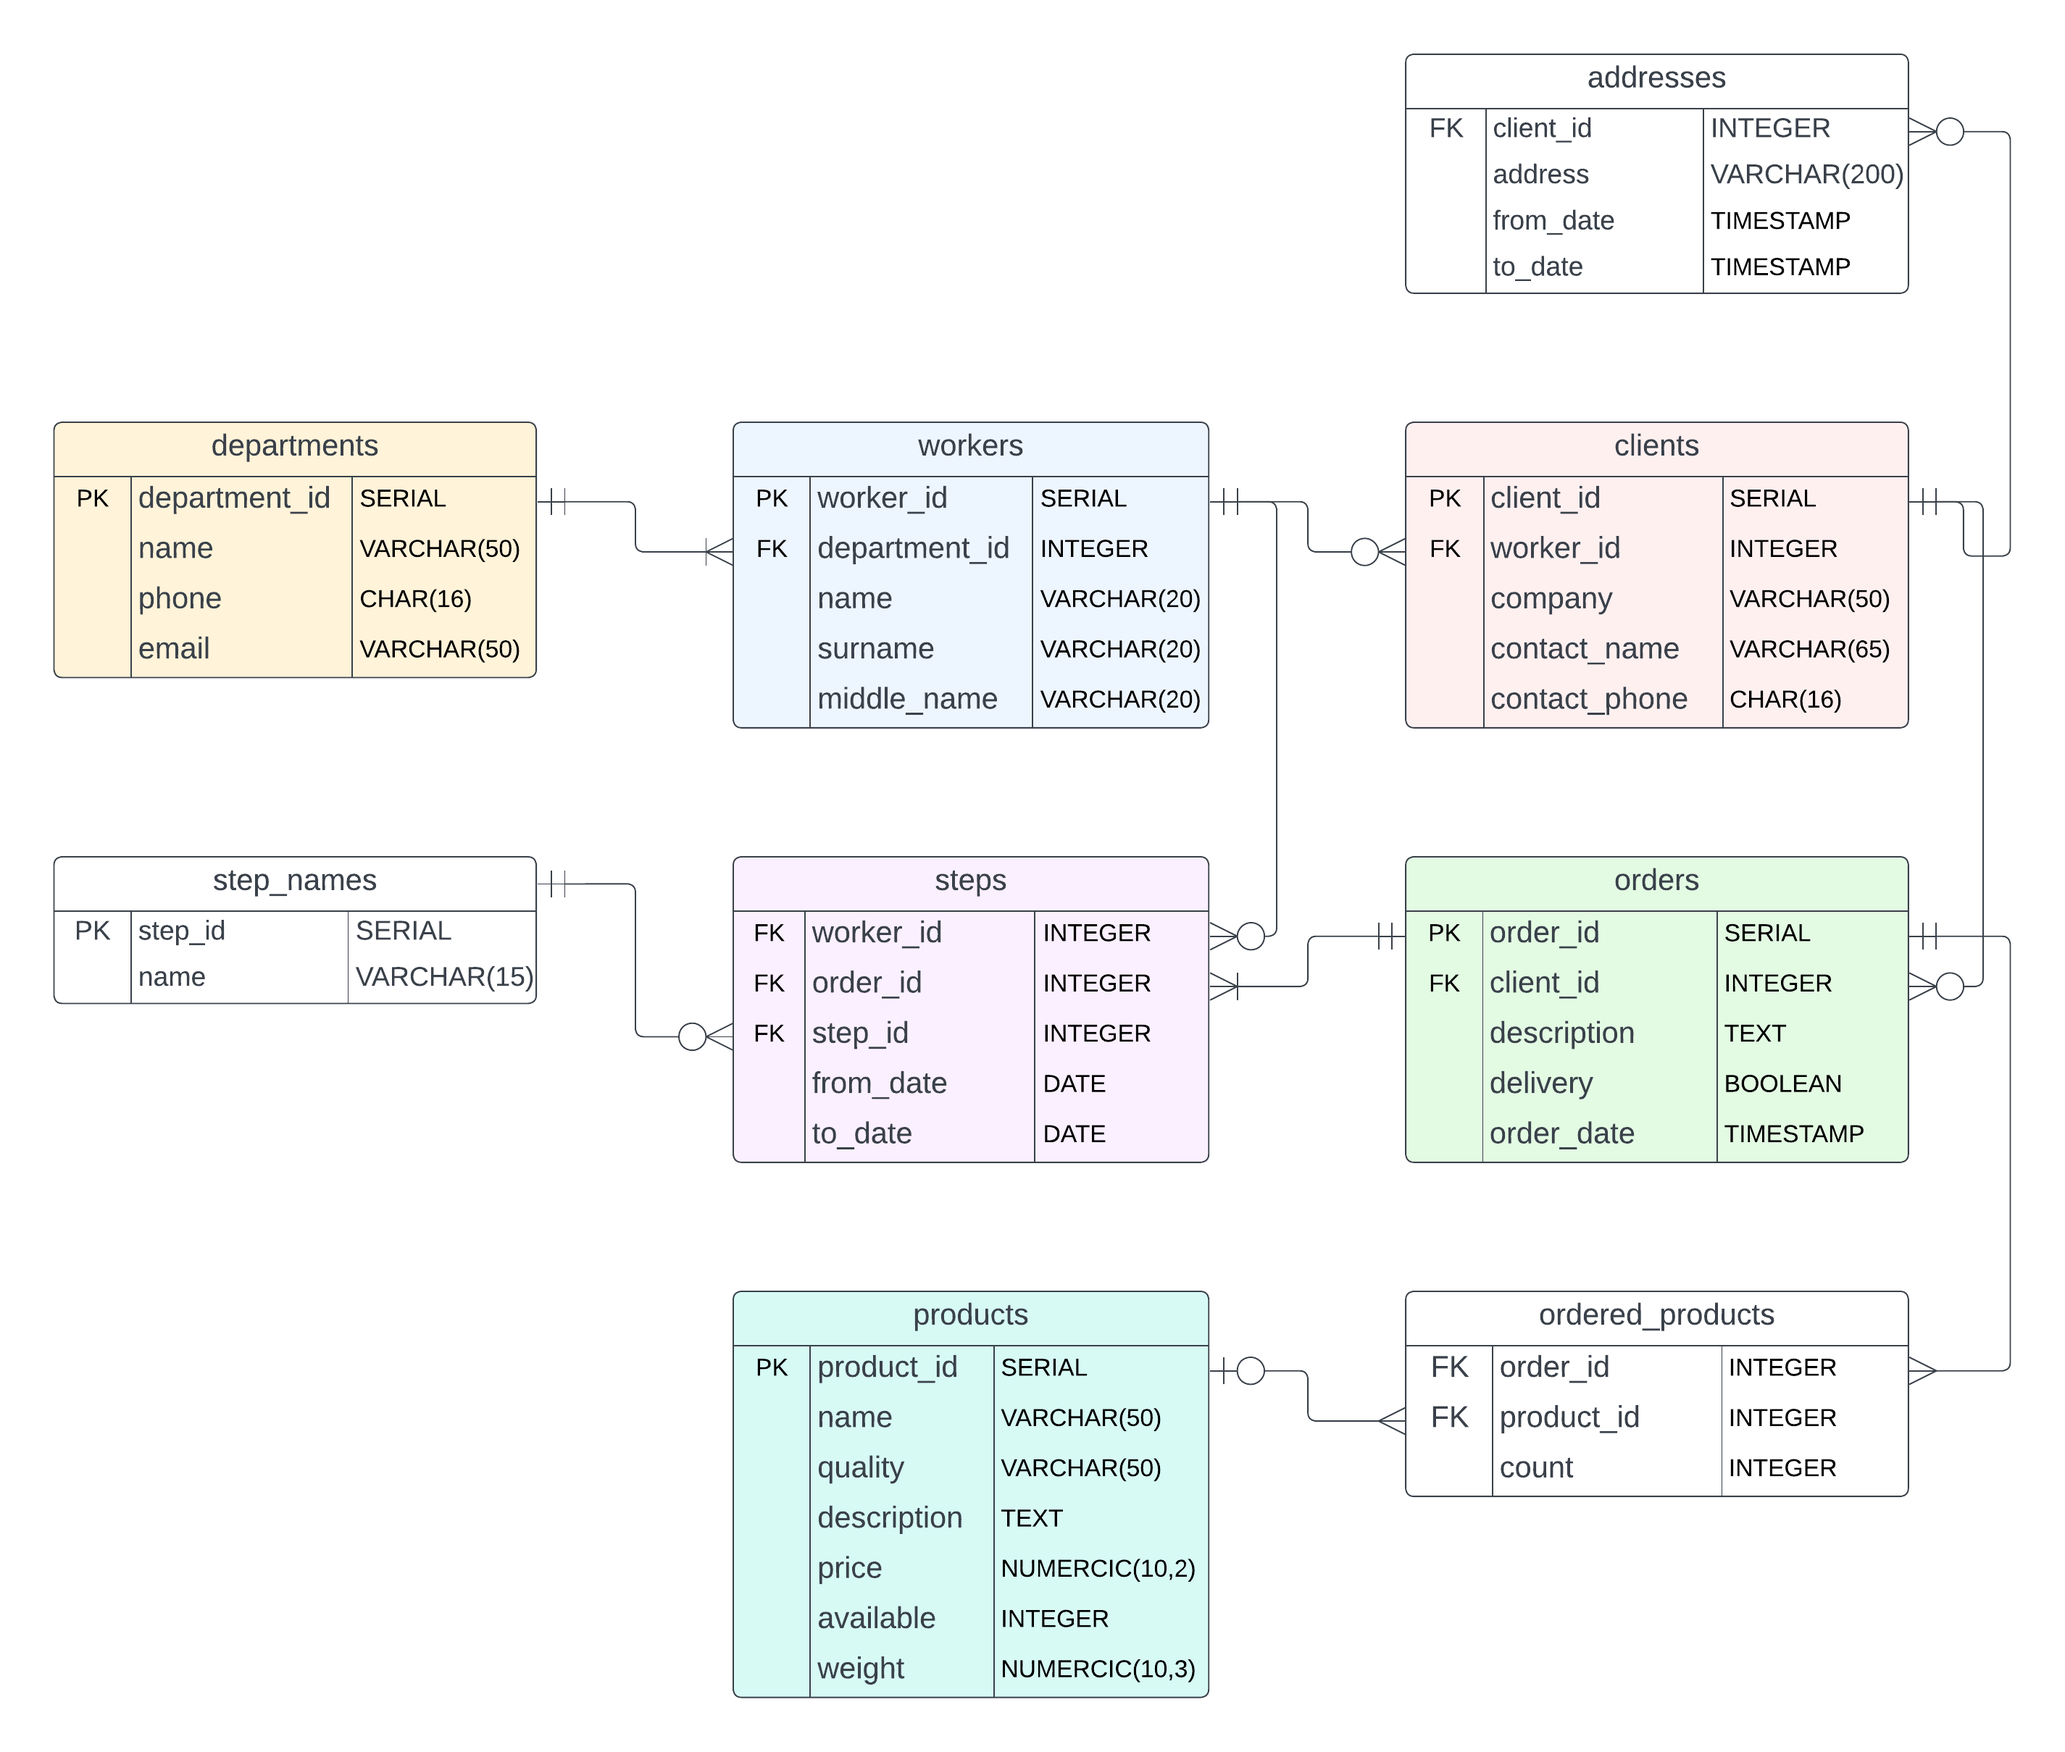
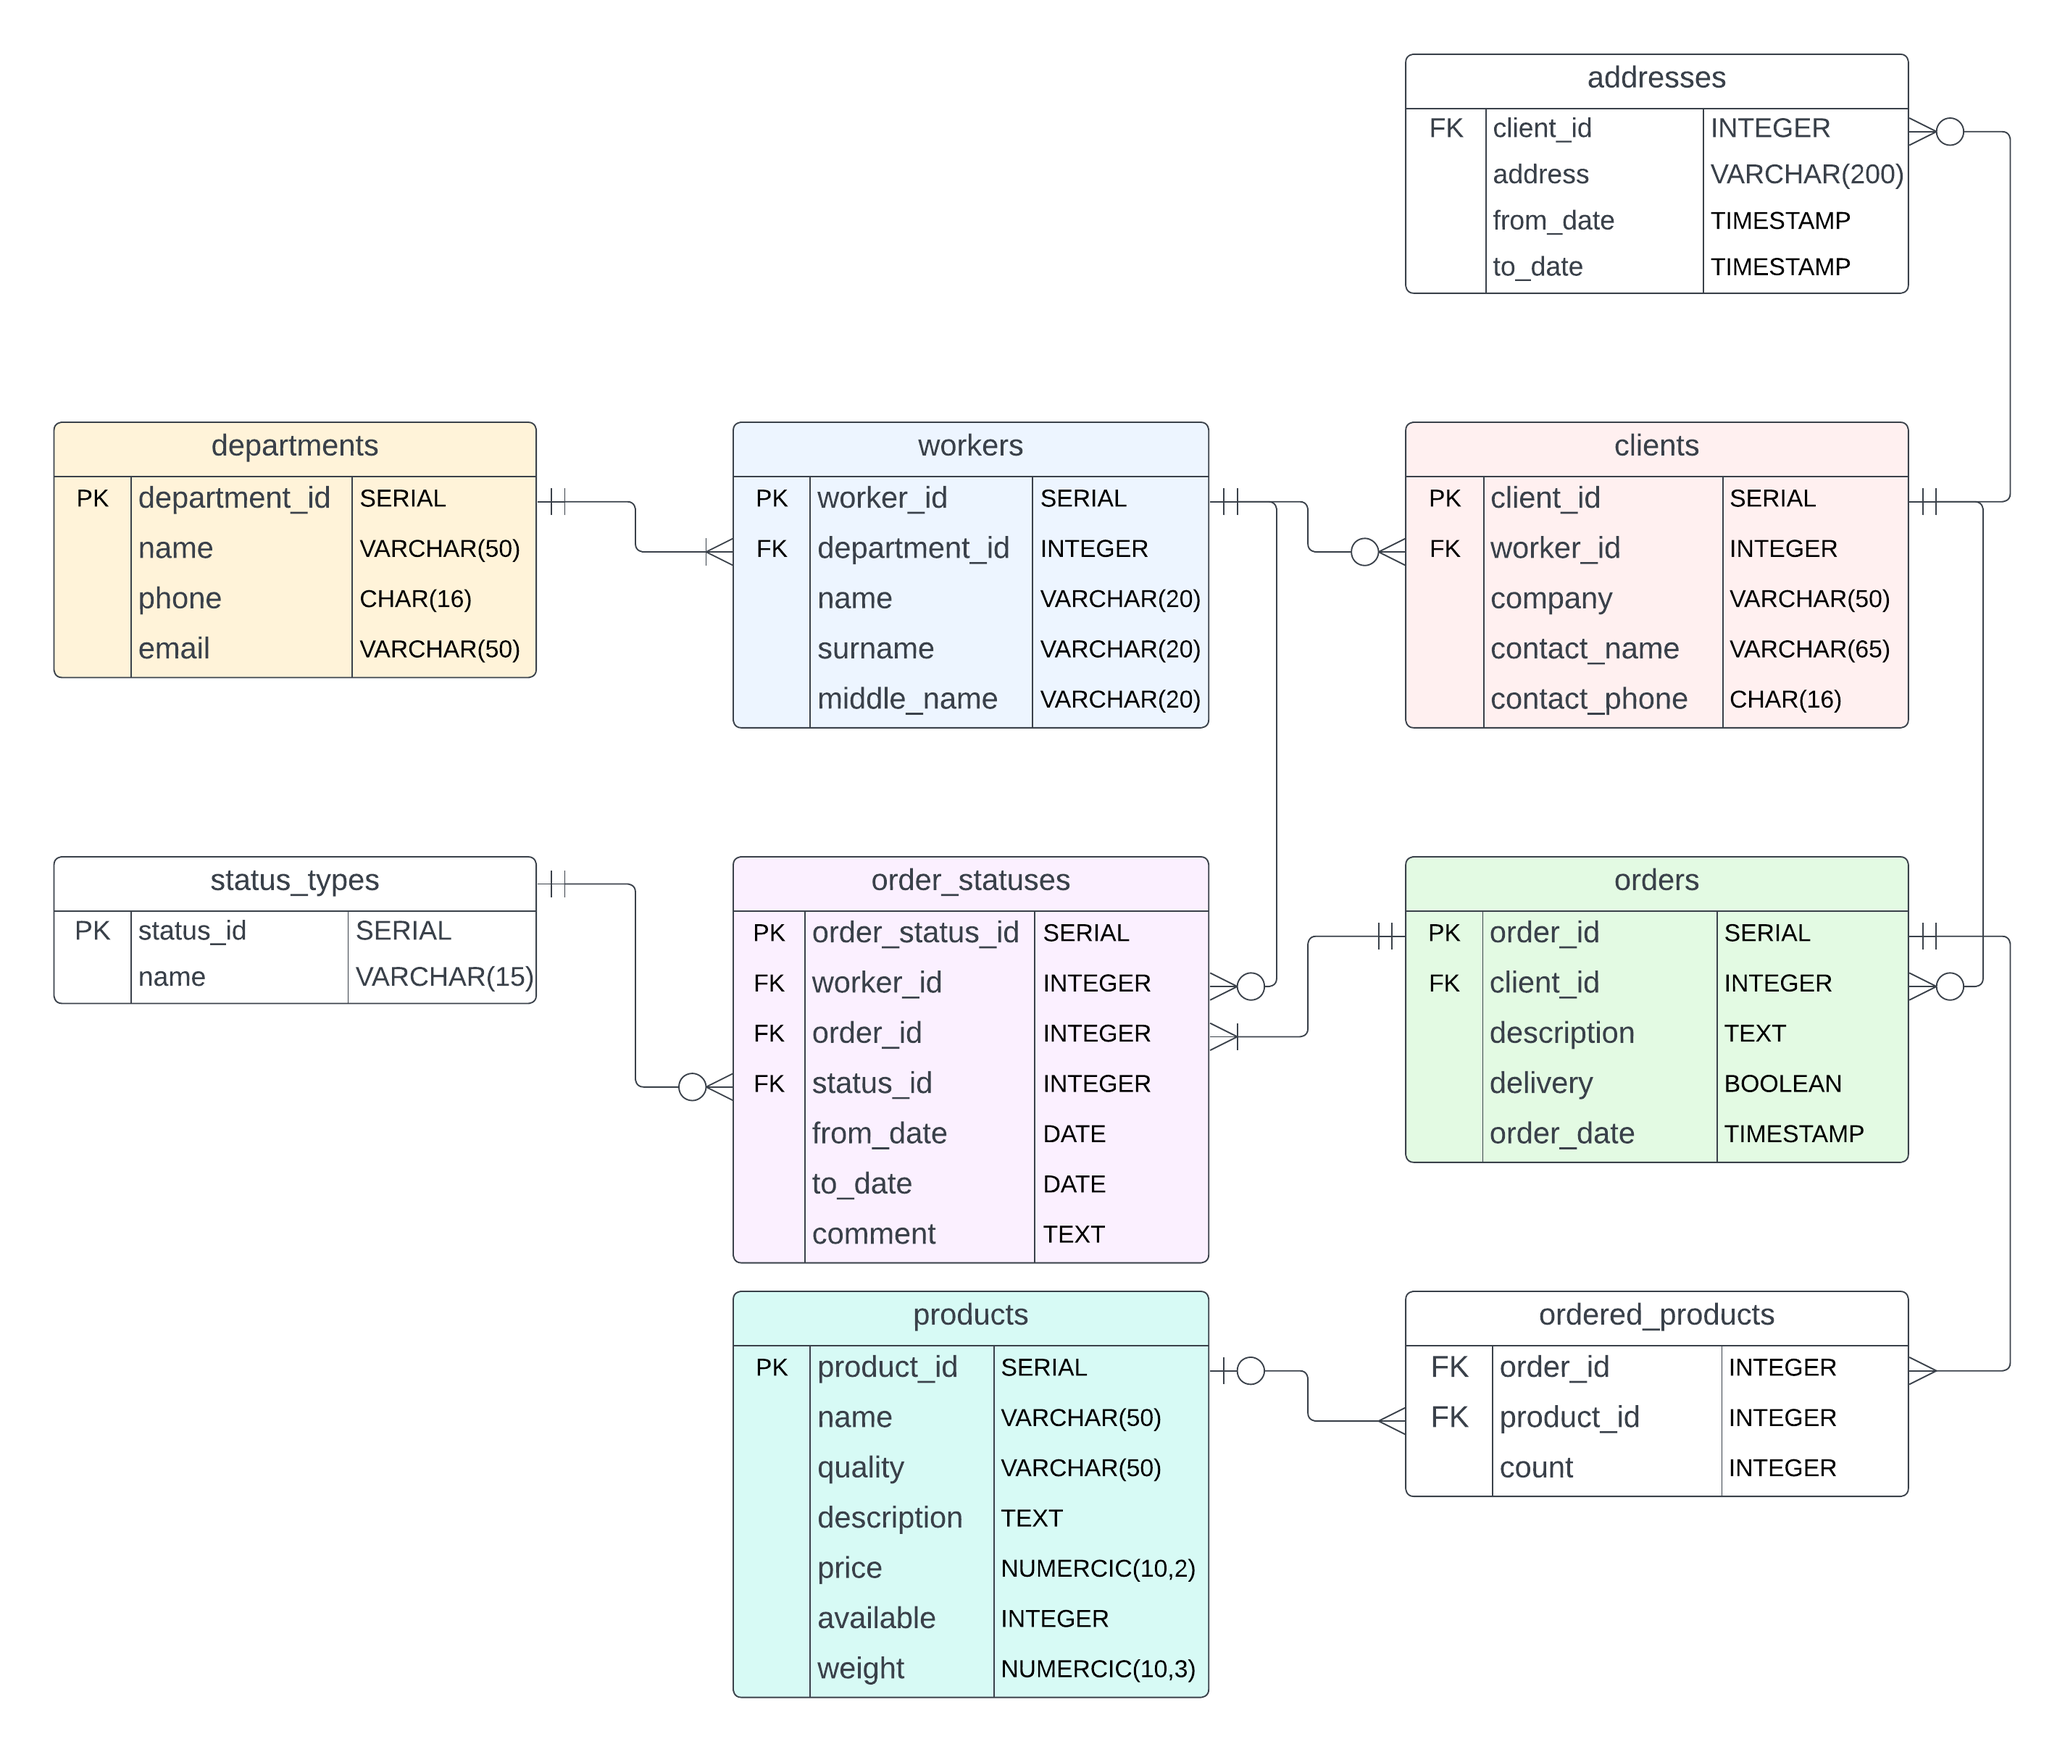
Changed table names

diff --git a/sql_scripts/queries.md b/sql_scripts/queries.md
@@ -50,12 +50,12 @@ HAVING COUNT(ord.order_id) > (
 ```sql
 SELECT
     orders.order_id AS order_id,
-    names.name AS step,
-    steps.from_date AS start_date
-FROM sutk.steps AS steps
-JOIN sutk.orders AS orders ON steps.order_id = orders.order_id
+    types.name AS step,
+    order_statuses.from_date AS start_date
+FROM sutk.order_statuses AS order_statuses
+JOIN sutk.orders AS orders ON order_statuses.order_id = orders.order_id
 JOIN sutk.clients AS clients ON orders.client_id = clients.client_id
-JOIN sutk.step_names AS names ON steps.step_id = names.step_id
+JOIN sutk.status_types AS types ON order_statuses.status_id = types.status_id
 WHERE to_date IS NULL
     AND clients.client_id = 2;
 ```
@@ -66,14 +66,14 @@ WHERE to_date IS NULL
 SELECT
     orders.order_id AS order_id,
     addresses.address,
-    steps.from_date
-FROM sutk.steps AS steps
-JOIN sutk.orders AS orders ON steps.order_id = orders.order_id
+    order_statuses.from_date
+FROM sutk.order_statuses AS order_statuses
+JOIN sutk.orders AS orders ON order_statuses.order_id = orders.order_id
 JOIN sutk.addresses AS addresses ON orders.client_id = addresses.client_id
-WHERE steps.step_id = 4
-	AND steps.to_date IS NULL
+WHERE order_statuses.status_id = 4
+	AND order_statuses.to_date IS NULL
 	AND (orders.order_date BETWEEN addresses.from_date AND addresses.to_date)
-ORDER BY steps.from_date;
+ORDER BY order_statuses.from_date;
 ```
 
 ### Для каждого продукта узнать сколько осталось незабронированных штук на складе
